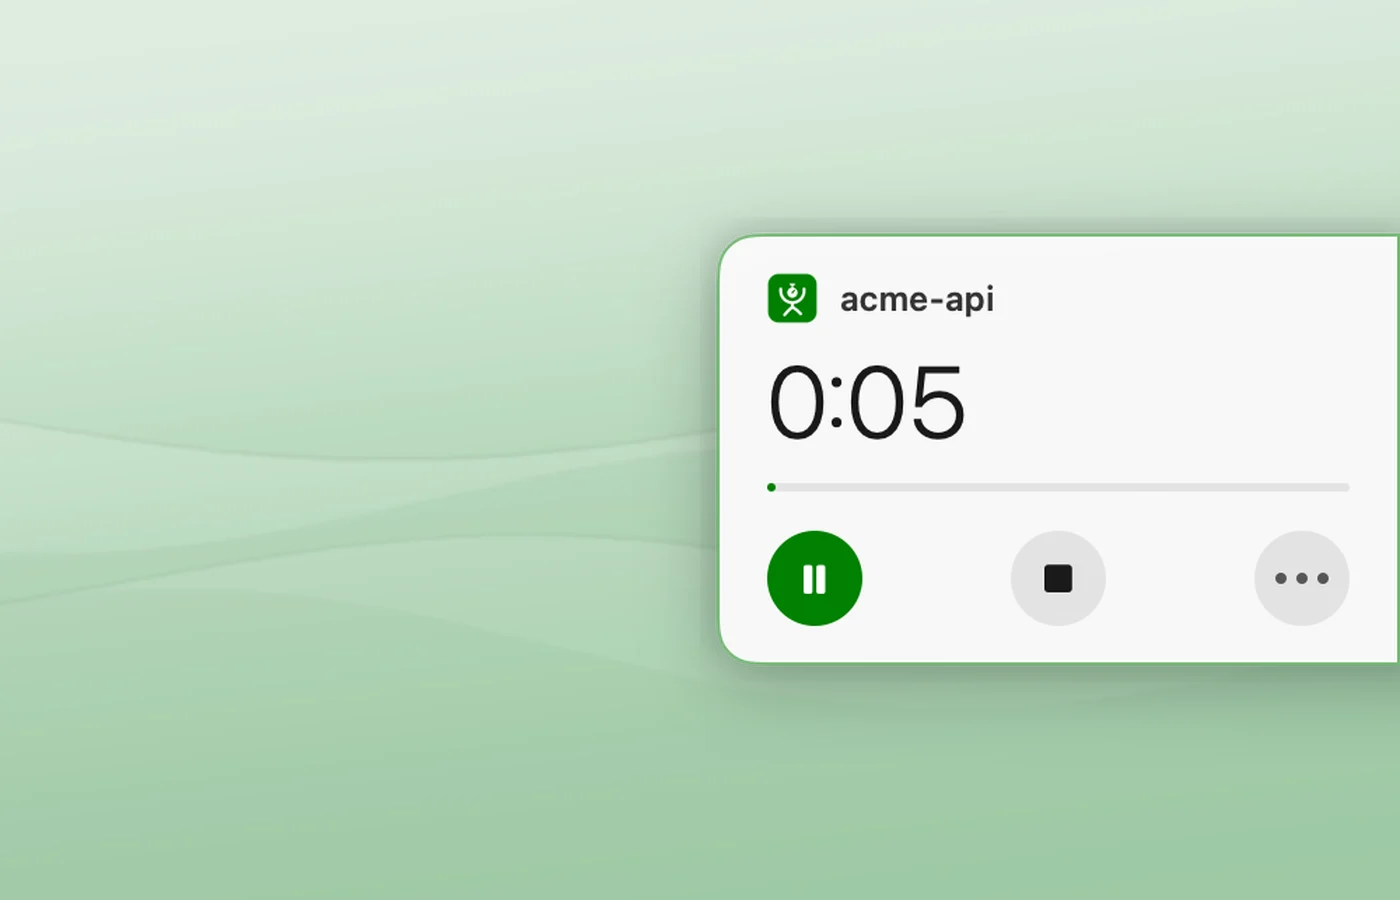
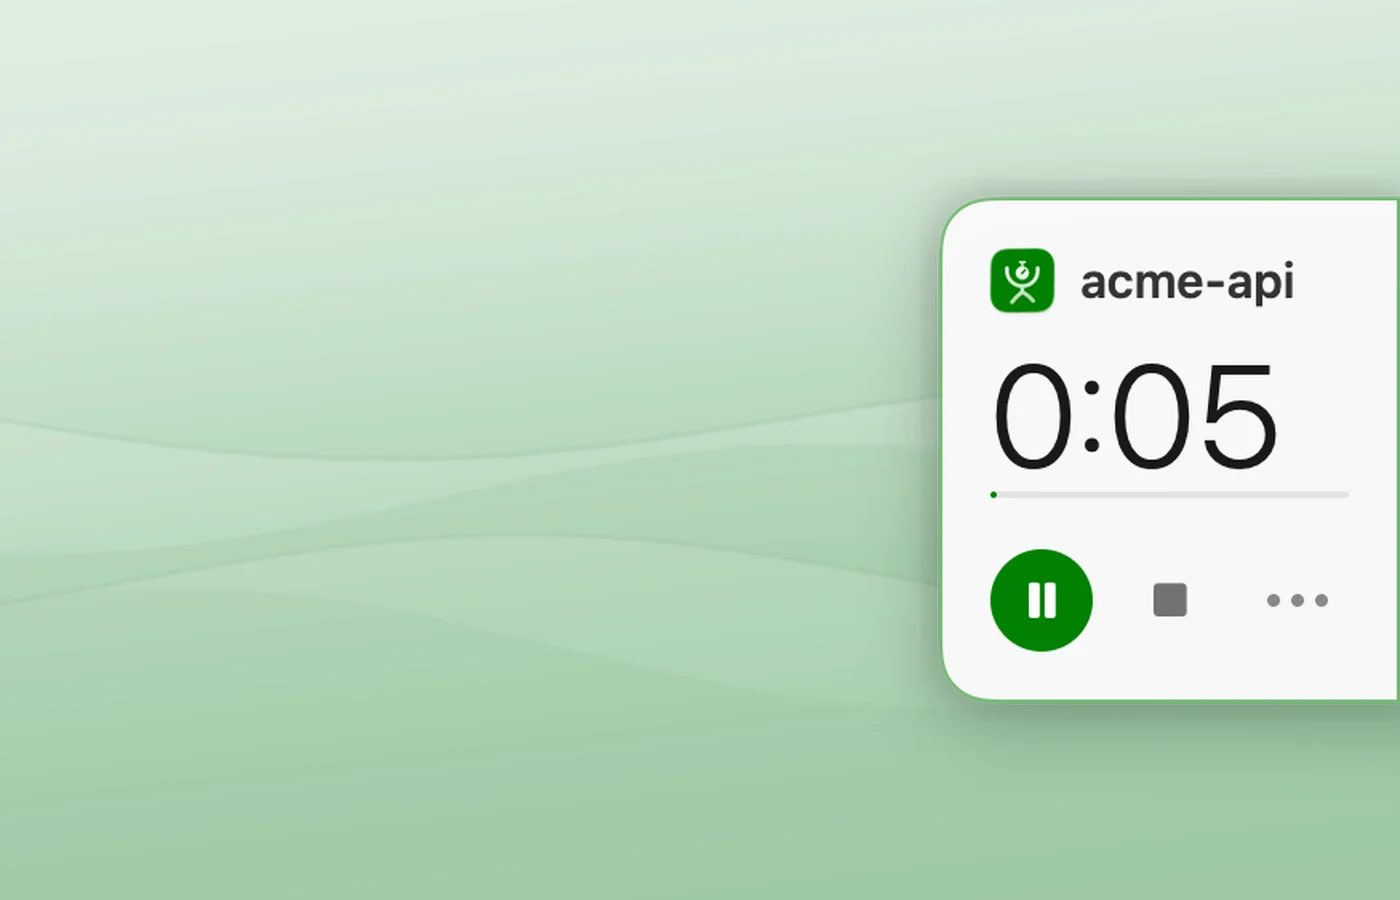
Glyph Time page: 0.1.4 shots, the Runner tile, polished iPhone screens
Every Mac shot is retaken from Glyph Time 0.1.4 (light, a made-up demo vault):
the closed Runner tile gets its own tab, then the open card, the nudge, a
countdown and Settings with the Dock and menu bar switches. The version reads
0.1.4. The iPhone side shows the four polished screens: the clock and today's
totals, then the alarms and reminders and a new alarm.

Claude-Session: https://claude.ai/code/session_012sxS4fLdJXLuRbJj2wa2yC

Changed region(s): [[0.4914, 0.1867, 1.0, 0.8089], [0.8907, 0.6222, 0.9521, 0.6844]]

diff --git a/docs/time/index.html b/docs/time/index.html
@@ -67,7 +67,7 @@
 <main>
   <div class="left">
     <div class="top">
-      <a class="brand" href="/time"><img class="icon" src="/family/time-tile.svg" width="72" height="72" alt=""><div><b>Glyph Time<small class="ver" data-version="fru-dev3/glyph-time" title="Latest release">v0.1.0</small></b><span>Time tracker for Mac</span></div></a>
+      <a class="brand" href="/time"><img class="icon" src="/family/time-tile.svg" width="72" height="72" alt=""><div><b>Glyph Time<small class="ver" data-version="fru-dev3/glyph-time" title="Latest release">v0.1.4</small></b><span>Time tracker for Mac</span></div></a>
       <h1 data-lines='["A count on the edge.","A nudge every 30 minutes.","Saved to your vault."]'>See where your hours go. <em><span id="said">A count on the edge.</span><i class="caret" aria-hidden="true"></i></em></h1>
     </div>
     <div class="alt" aria-label="Instead of Timing at 10 dollars a month, Toggl Track at 9 per user, Rize at 9.99 or Clockify at 3.99 per seat, Glyph Time is free on GitHub">
@@ -97,15 +97,17 @@
     <!-- /stargazers -->
     <div class="seg dev" role="group" aria-label="Device"><button type="button" aria-selected="true" data-d="mac"><svg viewBox="0 0 24 24" fill="none" stroke="currentColor" stroke-width="2" stroke-linecap="round" stroke-linejoin="round" aria-hidden="true"><rect x="3" y="4" width="18" height="12" rx="2"/><path d="M1 20h22"/></svg>Mac</button><button type="button" aria-selected="false" data-d="iphone"><svg viewBox="0 0 24 24" fill="none" stroke="currentColor" stroke-width="2" stroke-linecap="round" stroke-linejoin="round" aria-hidden="true"><rect x="6" y="2" width="12" height="20" rx="3"/><path d="M11 18h2"/></svg>iPhone <small>testing</small></button></div>
     <div class="views fill" data-ar="1.556" aria-live="polite">
-      <figure class="view on" data-k="running" data-d="mac" style="margin:0"><img class="shot" src="/time/running.webp" width="1400" height="900" alt="A session on acme-api: the clock open on the right edge of the screen at 0:05, with pause, stop and more" fetchpriority="high"></figure>
+      <figure class="view on" data-k="closed" data-d="mac" style="margin:0"><img class="shot" src="/time/closed.webp" width="1400" height="900" alt="Closed: only the Runner tile rests on the right edge of the screen" fetchpriority="high"></figure>
+      <figure class="view" data-k="running" data-d="mac" style="margin:0"><img class="shot" src="/time/running.webp" width="1400" height="900" alt="A session on acme-api: the clock open on the right edge of the screen at 0:05, with pause, stop and more" loading="lazy"></figure>
       <figure class="view" data-k="nudge" data-d="mac" style="margin:0"><img class="shot" src="/time/nudge.webp" width="1400" height="900" alt="The half-hour nudge: 1 h on acme-api, with Keep going and Stop" loading="lazy"></figure>
-      <figure class="view" data-k="countdown" data-d="mac" style="margin:0"><img class="shot" src="/time/countdown.webp" width="1400" height="900" alt="A countdown at zero: Time is up on acme-api, counting the time over, with Keep going and Stop" loading="lazy"></figure>
-      <figure class="view" data-k="settings" data-d="mac" style="margin:0"><img class="shot" src="/time/settings.webp" width="1400" height="900" alt="Glyph Time settings: nudge every 30 minutes, pause when away for 5 minutes, sessions saved to a vault folder" loading="lazy"></figure>
-      <figure class="view" data-k="iphone" data-d="iphone" style="margin:0"><img class="phone" src="/time/iphone-running.webp" width="506" height="1100" alt="Glyph Time in the Glyph app on iPhone: Acme API running at 0:11, with pause, stop and rename" loading="lazy"><img class="phone" src="/time/iphone-today.webp" width="506" height="1100" alt="Today's totals on iPhone, Acme API and an unnamed countdown, under the clock ready for the next session" loading="lazy"></figure>
-      <figure class="view" data-k="alarms" data-d="iphone" style="margin:0"><img class="phone" src="/time/iphone-alarm.webp" width="506" height="1100" alt="A new alarm on iPhone: Gym, with its day and time" loading="lazy"><img class="phone" src="/time/iphone-reminder.webp" width="506" height="1100" alt="A new reminder on iPhone: Call Sam, with its day and time" loading="lazy"></figure>
+      <figure class="view" data-k="countdown" data-d="mac" style="margin:0"><img class="shot" src="/time/countdown.webp" width="1400" height="900" alt="A countdown at zero: Time is up on acme-api, then counting the time over, with Keep going and Stop" loading="lazy"></figure>
+      <figure class="view" data-k="settings" data-d="mac" style="margin:0"><img class="shot" src="/time/settings.webp" width="1400" height="900" alt="Glyph Time settings: nudge every 30 minutes, pause when away for 5 minutes, sessions saved to a vault folder, and switches to show it in the Dock and the menu bar" loading="lazy"></figure>
+      <figure class="view" data-k="iphone" data-d="iphone" style="margin:0"><img class="phone" src="/time/iphone-today-1.webp" width="506" height="1100" alt="Glyph Time in the Glyph app on iPhone: Northwind running at 1:05, over today's totals by project" loading="lazy"><img class="phone" src="/time/iphone-today-2.webp" width="506" height="1100" alt="Countdowns of 5, 15, 25 and 50 minutes, today's 4 h 19 min by project, and the alarms and reminders" loading="lazy"></figure>
+      <figure class="view" data-k="alarms" data-d="iphone" style="margin:0"><img class="phone" src="/time/iphone-alarms-1.webp" width="506" height="1100" alt="Alarms and reminders on iPhone: Gym, Call Sam about the lease, Early flight, Dentist and more" loading="lazy"><img class="phone" src="/time/iphone-alarms-2.webp" width="506" height="1100" alt="A new alarm on iPhone: Stretch, with its day and time" loading="lazy"></figure>
     </div>
     <div class="seg" id="tabs" role="tablist" aria-label="Glyph Time on screen">
-      <button type="button" role="tab" aria-selected="true" data-k="running" data-d="mac"><svg viewBox="0 0 24 24" fill="none" stroke="currentColor" stroke-width="2" stroke-linecap="round" stroke-linejoin="round" aria-hidden="true"><path d="M12 3a9 9 0 100 18 9 9 0 000-18zM12 7v5l3 2"/></svg>Running</button>
+      <button type="button" role="tab" aria-selected="true" data-k="closed" data-d="mac"><svg viewBox="0 0 24 24" fill="none" stroke="currentColor" stroke-width="2" stroke-linecap="round" stroke-linejoin="round" aria-hidden="true"><rect x="5" y="5" width="14" height="14" rx="3.5"/></svg>Tile</button>
+      <button type="button" role="tab" aria-selected="false" data-k="running" data-d="mac"><svg viewBox="0 0 24 24" fill="none" stroke="currentColor" stroke-width="2" stroke-linecap="round" stroke-linejoin="round" aria-hidden="true"><path d="M12 3a9 9 0 100 18 9 9 0 000-18zM12 7v5l3 2"/></svg>Running</button>
       <button type="button" role="tab" aria-selected="false" data-k="nudge" data-d="mac"><svg viewBox="0 0 24 24" fill="none" stroke="currentColor" stroke-width="2" stroke-linecap="round" stroke-linejoin="round" aria-hidden="true"><path d="M6 8a6 6 0 0112 0c0 7 3 9 3 9H3s3-2 3-9M10.3 21a1.9 1.9 0 003.4 0"/></svg>Nudge</button>
       <button type="button" role="tab" aria-selected="false" data-k="countdown" data-d="mac"><svg viewBox="0 0 24 24" fill="none" stroke="currentColor" stroke-width="2" stroke-linecap="round" stroke-linejoin="round" aria-hidden="true"><path d="M6 2h12M6 22h12M7 2v4l5 6-5 6v4M17 2v4l-5 6 5 6v4"/></svg>Countdown</button>
       <button type="button" role="tab" aria-selected="false" data-k="settings" data-d="mac"><svg viewBox="0 0 24 24" fill="none" stroke="currentColor" stroke-width="2" stroke-linecap="round" stroke-linejoin="round" aria-hidden="true"><path d="M4 6h10M18 6h2M4 12h4M12 12h8M4 18h12M20 18h0M16 4v4M10 10v4M18 16v4"/></svg>Settings</button>
@@ -118,7 +120,7 @@
 <dialog class="sheet" id="features" aria-labelledby="feat-h">
   <div class="fhead"><img src="/family/time-tile.svg" width="40" height="40" alt=""><h2 id="feat-h">Everything Glyph Time does</h2><button type="button" class="fclose" aria-label="Close"><svg viewBox="0 0 24 24" fill="none" stroke="currentColor" stroke-width="2.2" stroke-linecap="round" aria-hidden="true"><path d="M6 6l12 12M18 6L6 18"/></svg></button></div>
   <div class="flist">
-    <div class="fq"><h3>A quiet count-up</h3><p>A small count with a dot rests on the right edge of your screen: green while it runs, a hollow ring while paused. Hover it for the project, the time, pause, stop and more.</p></div>
+    <div class="fq"><h3>A quiet count-up</h3><p>Closed, only the Runner tile rests on the right edge of your screen. While a session runs, the count sits beside it. Hover it for the project, the time, pause, stop and more.</p></div>
     <div class="fq"><h3>Start from anywhere</h3><p>From the clock on the edge, the menu bar, or Control-Option-T. The same keys pause and resume. Nothing ever takes the focus from the app you are in.</p></div>
     <div class="fq"><h3>Projects guessed for you</h3><p>Unnamed, a session takes the repo or folder of the terminal or editor in front, else the app's name, shown dimmed as a guess. Name it any time.</p></div>
     <div class="fq"><h3>A nudge every 30 minutes</h3><p>The clock slides out with "1 h on acme-api" and two answers, Keep going or Stop. Left alone it fades back after 8 seconds. Every 15 to 90 minutes, or never.</p></div>
